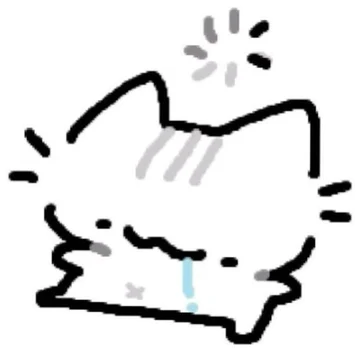
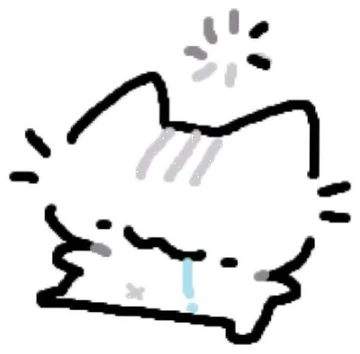
Clean up cry and flower stickers, document everything in README
Smooths the boxy outlines and removes a stray speck on the two
stickers. README now covers testing links, every level, all 15 easter
eggs with how to trigger them, Kuku's moods, sound and where to edit.

Claude-Session: https://claude.ai/code/session_01BNWm63qk4svv4HA9giRSWB

diff --git a/README.md b/README.md
@@ -1,15 +1,133 @@
 # kuku-birthday
 
-A small, grumpy birthday website for Samiya's 22nd. Phone-first, built with Vite, GSAP and canvas-confetti.
+A small, grumpy, phone-first website for **Samiya's 22nd birthday (15 October 2026)**, made by Ali.
+Kuku, an angry cat sticker, guides her through seven levels, comments on everything and changes mood as she goes. There are 15 hidden easter eggs to find.
 
-- Live: https://plasteredpeak.github.io/kuku-birthday/
-- Opens at 00:00 on 15 Oct, Pakistan time. Add `?ali` to the URL to skip the countdown for testing, and `?reset` to wipe saved progress.
+- **Live:** https://plasteredpeak.github.io/kuku-birthday/
+- **Opens at:** 00:00 on 15 Oct, Pakistan time (PKT, UTC+5). That's 20:00 on 14 Oct in Ireland (IST, UTC+1). Before then, the site shows a countdown.
+- **Built for:** Samsung Galaxy S25 (Chrome or Samsung Internet), portrait. It works on any phone and on desktop too.
 
-## Develop
+---
+
+## Testing links
+
+| URL | What it does |
+|---|---|
+| `/kuku-birthday/` | The real thing. Shows the countdown until 12 PKT, then opens on its own. |
+| `/kuku-birthday/?ali` | Skips the countdown so you can play it any time. |
+| `/kuku-birthday/?ali&reset` | Skips the countdown and wipes saved progress (levels, eggs, pets, Wordle). |
+| `/kuku-birthday/?ali&all` | Unlocks every level at once, to jump straight to any section. |
+
+Progress is saved in the browser (localStorage), so if she closes the tab she'll pick up where she left off. **Before sending the link, open it once with `?reset`** on your own phone, so your test progress doesn't confuse you later.
+
+---
+
+## The levels
+
+Each level unlocks the next one. Every level has its own music track.
+
+| # | Level | What happens | Music |
+|---|---|---|---|
+| 0 | **Gate** | Ireland, Pakistan and a fake "GST" clock. Countdown until 12 PKT, then the question "Merey 12 ya apkay 12?" "My 12, obviously" continues. | Music-box waltz with a ticking clock |
+| 1 | **Wordle** | Birthday Wordle. The answer is **DUMBO**. Six tries, a real keyboard and a "Copy my result" button. | Light plucky loop |
+| 2 | **The cave** | "The cave of things you made me do." Tap 5 lanterns to light them, each showing a real quote from the chat. Then "Rest at the bench". | Dark cave ambience with bells (the Hollow Knight-feeling one) |
+| 3 | **Anime corner** | **Saiki K.:** tap Ψ to read her mind (her real chat lines). **Black Butler:** lift the cover to find cheesecake ("Yes, my lady"). **Take My Brother Away:** eat a chocolate bar before the brother steals it. | Upbeat anime-opening feel |
+| 4 | **Cake** | 22 candles. "Blow out the candles" uses the mic, so she blows into the phone. "My mic is shy" lets her tap each candle instead. | Happy Birthday on a music box |
+| 5 | **Timeline** | 2024 (almost a day late), 2025 (on time, "Ur big 16"), 2026 (on time plus a website). | Soft piano |
+| 6 | **Letter** | Ali's letter with the translation guide, then the "Get lost" button, then the finale with her easter-egg score and hints for the ones she missed. | Soft piano |
+
+---
+
+## All 15 easter eggs (one for each day of October up to her birthday)
+
+Each one shows a yellow toast ("Easter egg n/15"), plays a jingle, buzzes the phone and adds to the counter in the top right. At the end, she sees which ones she found and gets a hint for each one she missed.
+
+| # | Egg (id) | How to get it | What happens | Hint shown at the end |
+|---|---|---|---|---|
+| 1 | GST clock (`gst`) | Tap the **GST** clock on the gate | Kuku: "I DONT HAVE GST CLOCK" (her own line), crying Kuku | A clock that does not exist. |
+| 2 | Ali's 12 (`ali12`) | On the gate, tap **"Ali's 12"** | Screen shakes, angry chibi Samiya pops up: "you, every time he is late". Kuku: "that's 4 hours late. as usual 😭" | The wrong answer at the start. |
+| 3 | Batman (`batman`) | Tap **Ali's (Ireland) clock 3 times quickly**, or tap the **"– Ali" signature** at the end of the letter | Batman cat with a bass riff: "I'm Batman. – Ali Hamza, a.k.a. pp" | Poke Ali's clock. Or his name. |
+| 4 | HAMZA (`hamza`) | Guess **HAMZA** in the Wordle | Kuku: "why is HE in your head. on your birthday." | Guess a name in the Wordle. |
+| 5 | Pick up Kuku (`hold`) | **Long-press Kuku** (hold about 1 second) | Buff Kuku: "put me DOWN. i go to the gym." | Don't just tap Kuku. Hold. |
+| 6 | Sign cat (`sign`) | A stick cat holding **"ur short"** or **"UR GAY."** slides in from the left for about 5 seconds, a few seconds after the Wordle, Anime and Timeline levels open. **Tap it** before it leaves. | Kuku: "rude. accurate though." | Someone keeps peeking from the left with a sign. |
+| 7 | Shake (`shake`) | **Shake the phone** | It rains cat stickers. Kuku: "it is raining kukus. happy now?" | Shake things up. |
+| 8 | Title (`title`) | Tap **"samiya's 22nd"** (top left) **5 times quickly** | Kuku: "stop poking things. you're 22." | Poke the top-left corner. |
+| 9 | Birth time (`born`) | Have the site open **between 1:30 and 1:59pm Pakistan time** (she was born at 1:30pm) | Kuku: "1:30pm. you were born now-ish. I remember things. sometimes." | Come back at the time you were born. |
+| 10 | Sideways (`turn`) | **Turn the phone to landscape** | Full-screen nag: "Phone seedha karo. This is a portrait birthday." | Hold your phone the wrong way. |
+| 11 | Bench (`bench`) | Light all 5 lanterns in the cave, then tap **"Rest at the bench"** (everyone gets this one) | Sleepy Kuku: "progress saved. unlike your sleep schedule." | Sit down somewhere. |
+| 12 | Mind reader (`psi`) | Tap the **Ψ** in the Saiki panel **5 times** | Kuku: "psychic diagnosis: mostly food." | Keep reading your mind. |
+| 13 | Gojo (`gojo`) | In the Anime corner, a tiny blindfolded **Gojo peeks out at the bottom right of the "Take My Brother Away" panel**. Tap it. | Big chibi Gojo: "Throughout heaven and earth, you alone are the birthday one." Kuku: "he's cute. i'm cuter." | Something blindfolded is hiding in the anime corner. |
+| 14 | Sleepy Kuku (`idle`) | **Don't touch anything for 45 seconds** | Kuku falls asleep: "zzz... khana khalo... zzz". Tap to wake her ("i was SLEEPING.") | Do nothing for a while. |
+| 15 | Brother (`bro`) | In the chocolate bar, keep eating until the **brother has stolen 3 pieces** (each bite has a 45% chance he steals one) | Kuku: "you let him win. very big sister of you." | Let the brother win. |
+
+### Other secrets (not counted as eggs)
+- **Pet Kuku 15 times** (15 for the 15th). She counts "(n/15)" with grumpy lines, then gives in: heart Kuku, "...ok fine. happy birthday 😾". From then on she stays calm and blushes. Extra pets after that get purrs.
+- **Wordle words with replies:** IDIOT ("translation: text me when you get home"), PAGAL, SHORT ("the sign cat agrees"), KUKUS, HAPPY, CAKES.
+- **Wordle:** solving it in 1 or 2 gets "Wordle in 2, as promised", a callback to the letter.
+- **Letter:** tap the red words **noob / idiot / pagal** for their translation. Tap **gym** for buff Kuku.
+- **"Get lost":** Kuku zooms off-screen, comes back holding a heart and says "...i came back. you didn't go either. good."
+- **Countdown:** if she has the site open at exactly midnight, it opens on its own with confetti and "it's 12. YOUR 12."
+
+---
+
+## Kuku's moods
+
+Kuku (bottom right) switches stickers depending on what's happening, then goes back to her base mood.
+
+| Mood | Sticker | When |
+|---|---|---|
+| angry (base) | `angry` | Default, until she's been petted 15 times |
+| calm (base) | `calm` | After 15 pets |
+| heart (base) | `heart` | 15th pet, and permanently after "Get lost" |
+| yay | `yay` | Gate opening, picking "My 12", Wordle win, lifting the cover, candles out, cake intro |
+| cry | `cry` | Wordle loss, Ali's 12, GST clock, brother steals, shake |
+| eyes | `eyes` | Wordle, cave and letter intros, Ψ, insult words, mic listening, lanterns done, HAMZA |
+| sleep | `sleep` | Bench, and the idle egg (stays asleep until tapped) |
+| music | `music` | Turning sound on, anime intro |
+| flower | `flower` | Timeline intro, extra pets |
+| buff | `buff` | Long-press, "gym" in the letter |
+| zoom | `zoom` | "Get lost" |
+
+Pop-up stickers: `batman`, `gojo`, `samiya-angry`. Peeking sticker: `sign-short` / `sign-gay`. The shake cat-rain uses the 11 mood stickers.
+
+---
+
+## Sound
+
+- **Music:** original tracks played live with Web Audio (`src/audio.js`), so there are no audio files to download. The Hollow Knight soundtrack is copyrighted, so these are new pieces in that mood. "Happy Birthday" is public domain.
+- **Effects:** button taps, Wordle keys and tile chimes, lantern bells, geo tinkles, meows and hisses, chocolate crunch, candle puffs, confetti pops, the Batman riff, a Gojo "domain" chord and the egg jingle.
+- **Mute:** the headphones cat in the top bar. The choice is remembered.
+- Phones block sound until the first tap, so the music starts after her first touch.
+
+---
+
+## Project structure
+
+```
+index.html              all level markup and the letter text
+src/main.js             levels, Wordle, Kuku moods, easter eggs, confetti
+src/audio.js            music themes + sound effects
+src/style.css           styling (Gaegu + Atkinson Hyperlegible fonts)
+src/assets/cats/*.webp  stickers (background removed, white outline)
+src/assets/kuku-*.png   original Kuku (angry) and calm Kuku
+art-originals/*.jpg     the original cat images
+.github/workflows/deploy.yml  builds with Vite and deploys to GitHub Pages
+```
+
+**Common edits:**
+- Letter text: `index.html`, inside `<article class="letter">`
+- Wordle answer: `ANSWER` in `src/main.js`
+- Cave quotes: `MEMORIES` in `src/main.js`
+- Mind-reader thoughts: `THOUGHTS` in `src/main.js`
+- Opening time: `BIRTHDAY` in `src/main.js` (in UTC)
+- Music: `THEMES` in `src/audio.js`
+
+## Develop and deploy
+
     npm install
-    npm run dev
+    npm run dev       # local dev server
+    npm run build     # production build into dist/
 
-## What's inside
-- `src/audio.js`: original music for each section (clock waltz, Wordle loop, cave ambience, anime opener, Happy Birthday music box, soft piano), played live with Web Audio, plus every sound effect.
-- `src/assets/cats/`: Kuku's moods and the easter-egg stickers. The original images are in `art-originals/`.
-- 15 easter eggs, one for each day of October up to her birthday.
+Every push to `main` builds and deploys to GitHub Pages automatically through `.github/workflows/deploy.yml` (Settings → Pages → Source must be **GitHub Actions**). Only keep that one workflow, because GitHub's "static content" template publishes unbuilt files and breaks the site.
+
+Built with Vite, GSAP and canvas-confetti. No photos are used.
